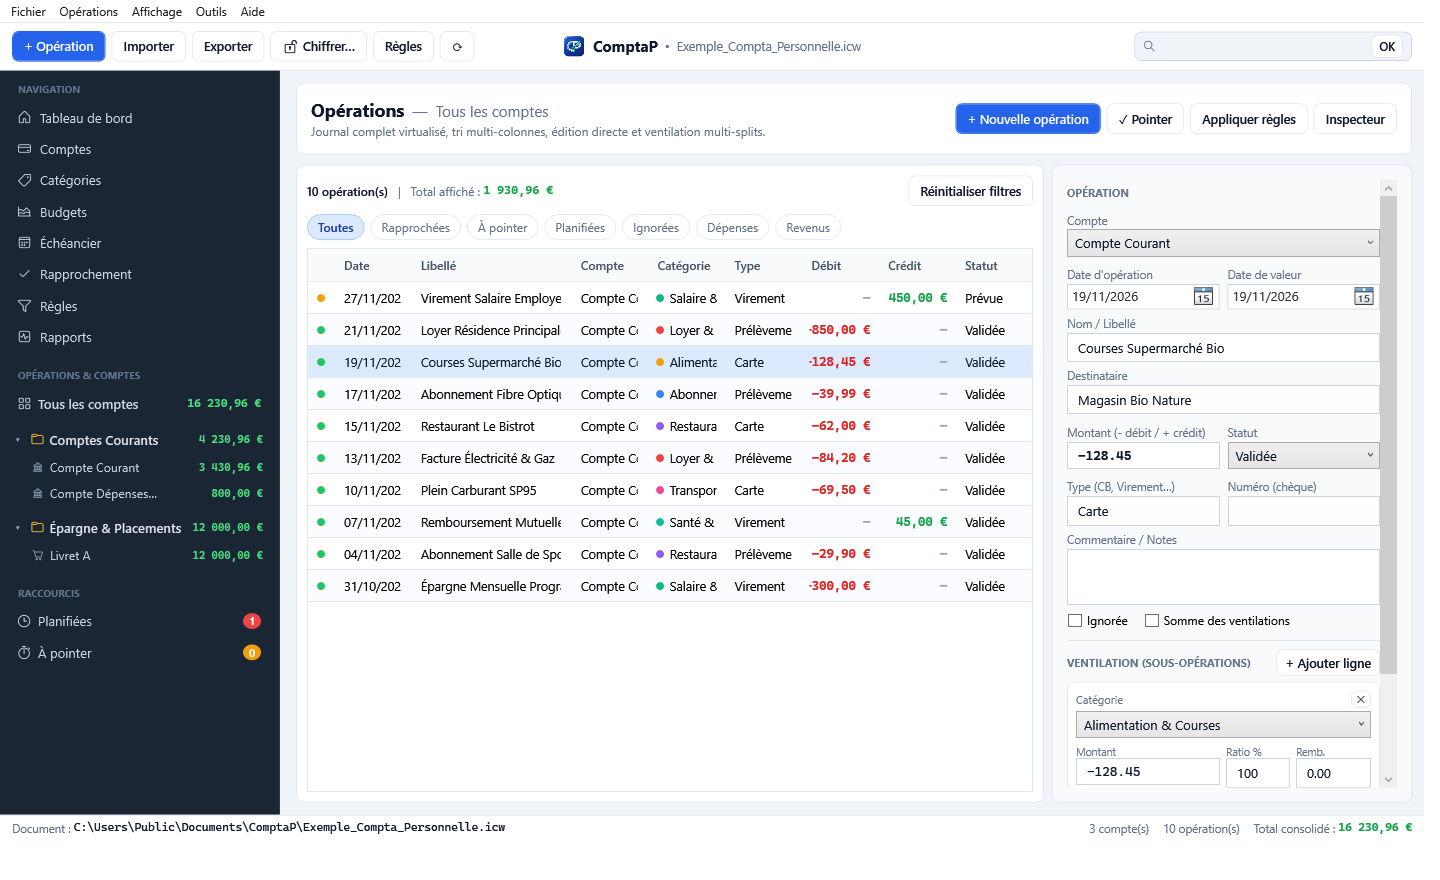
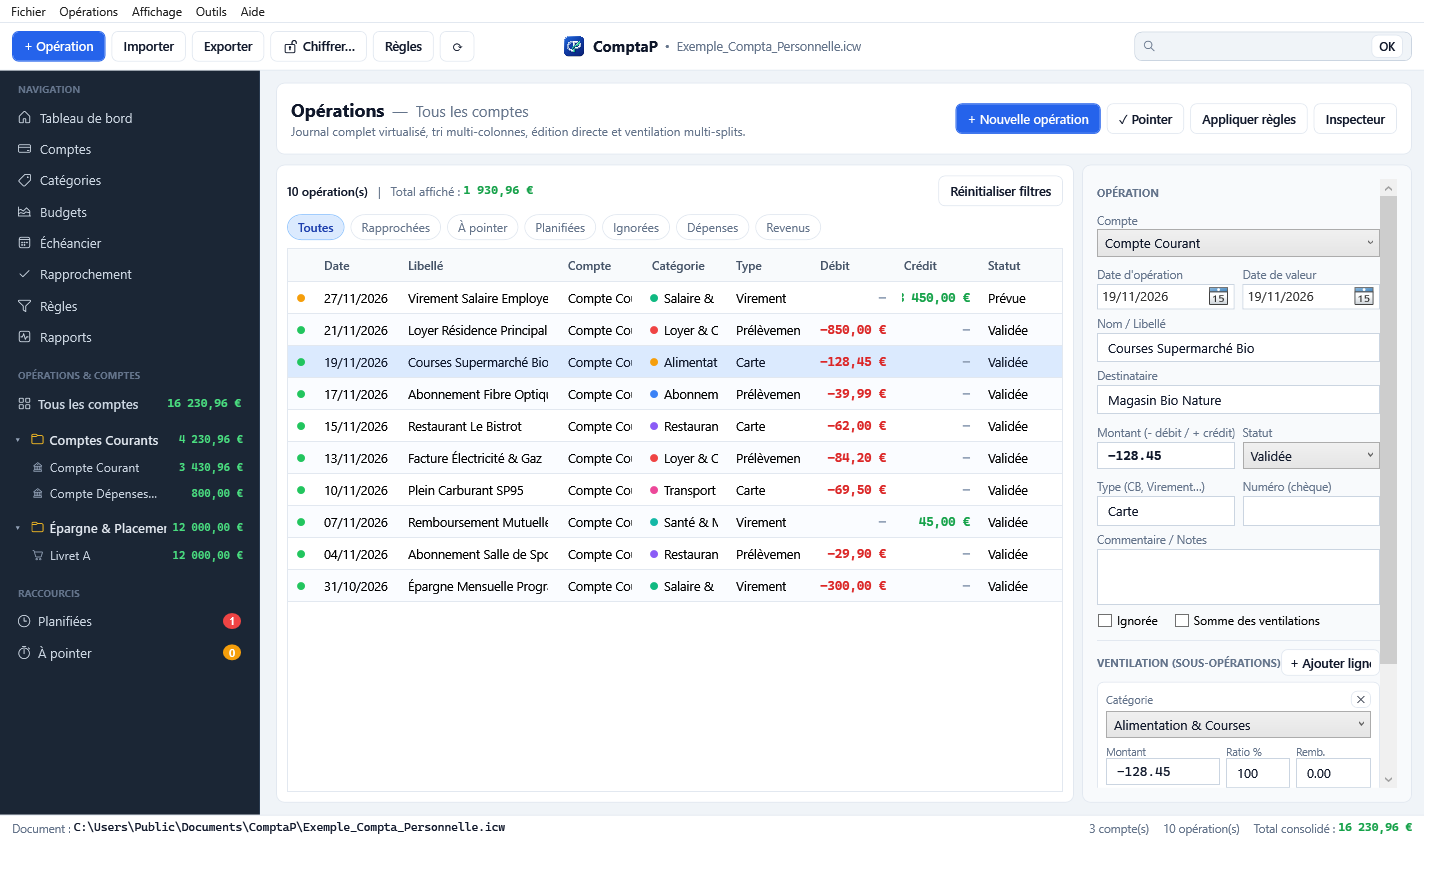
docs: update presentation and screenshots for v1.1.0

diff --git a/README.md b/README.md
@@ -8,7 +8,7 @@ Bienvenue sur le dépôt de distribution public officiel de **ComptaP** pour **W
 
 <p align="center">
   <a href="https://github.com/SharkLog76/comptap-releases/releases/latest">
-    <img src="https://img.shields.io/badge/Version-v1.0.0-6366F1?style=for-the-badge" alt="Version v1.0.0" />
+    <img src="https://img.shields.io/badge/Version-v1.1.0-6366F1?style=for-the-badge" alt="Version v1.1.0" />
   </a>
   <img src="https://img.shields.io/badge/Windows-11_x64-0078D4?style=for-the-badge&logo=windows11&logoColor=white" alt="Windows 11" />
   <img src="https://img.shields.io/badge/.NET-10.0_WPF-512BD4?style=for-the-badge&logo=dotnet&logoColor=white" alt=".NET 10 WPF" />
@@ -18,11 +18,11 @@ Bienvenue sur le dépôt de distribution public officiel de **ComptaP** pour **W
 
 ---
 
-### 📦 Télécharger la dernière version (`v1.0.0`)
+### 📦 Télécharger la dernière version (`v1.1.0`)
 
-👉 **[Télécharger ComptaP v1.0.0 (Dernière version)](https://github.com/SharkLog76/comptap-releases/releases/latest)**
+👉 **[Télécharger ComptaP v1.1.0 (Dernière version)](https://github.com/SharkLog76/comptap-releases/releases/latest)**
 
-- **Windows 11 — `ComptaP-Setup-1.0.0.exe`** *(Recommandé)* :
+- **Windows 11 — `ComptaP-Setup-1.1.0.exe`** *(Recommandé)* :
   - Assistant d'installation complet en français.
   - Raccourcis Menu Démarrer et Bureau avec logo officiel ComptaP.
   - Association automatique des documents `.icw` et menu contextuel pour les fichiers Mac `.cdb`.
